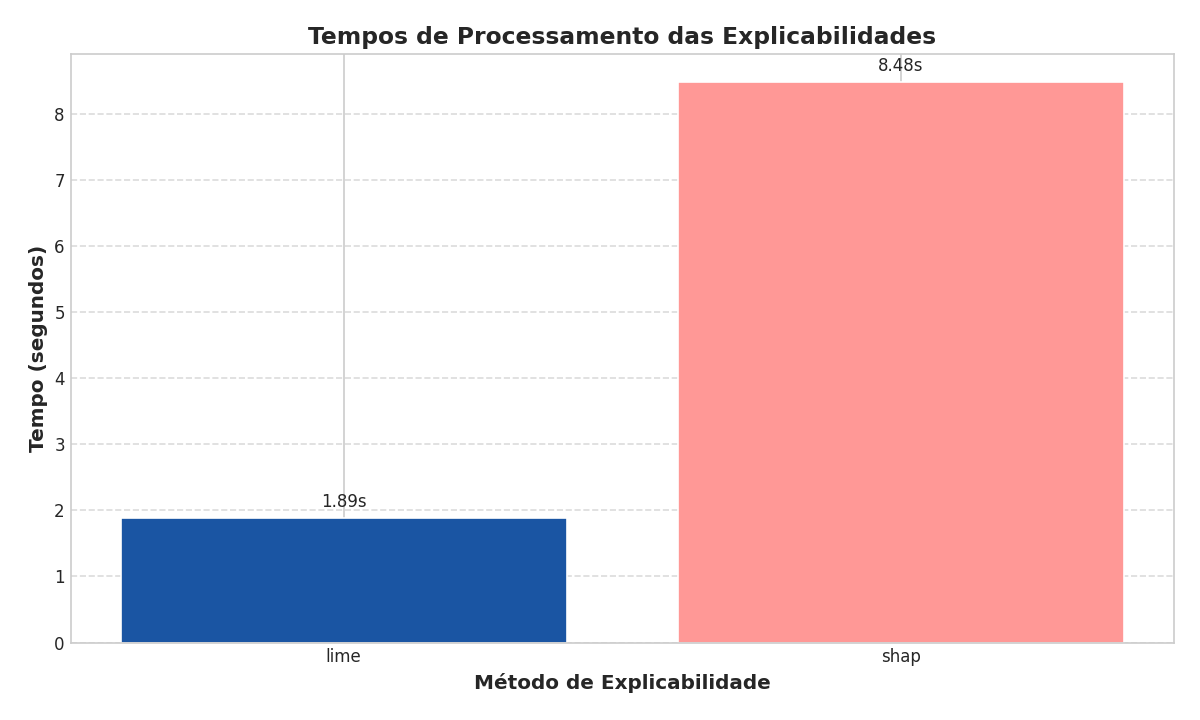
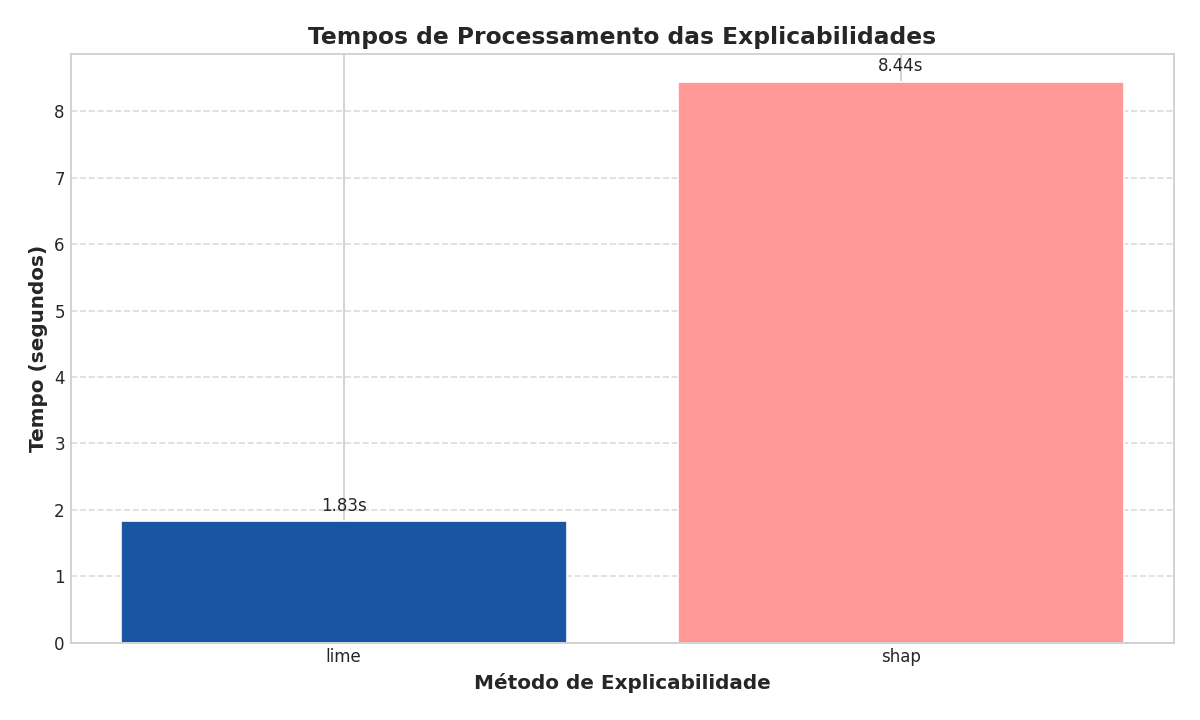
organização de lime e shap em colunas

diff --git a/CLFE/client/reports/client_1/final_report.html b/CLFE/client/reports/client_1/final_report.html
@@ -142,11 +142,11 @@
 <tr><th>Ronda</th><th>Fit</th><th>Evaluate</th><th>Lime</th><th>Shap</th></tr>
 </thead>
 <tbody>
-<tr><td>1</td><td>0.4288</td><td>0.0015</td><td>0.0000</td><td>0.0000</td></tr>
-<tr><td>2</td><td>0.0657</td><td>0.0015</td><td>0.0000</td><td>0.0000</td></tr>
-<tr><td>3</td><td>0.0649</td><td>0.0016</td><td>0.0000</td><td>0.0000</td></tr>
-<tr><td>4</td><td>0.0611</td><td>0.0014</td><td>0.0000</td><td>0.0000</td></tr>
-<tr><td>5</td><td>0.0667</td><td>0.0017</td><td>1.8903</td><td>8.4796</td></tr>
+<tr><td>1</td><td>0.4355</td><td>0.0015</td><td>0.0000</td><td>0.0000</td></tr>
+<tr><td>2</td><td>0.0636</td><td>0.0016</td><td>0.0000</td><td>0.0000</td></tr>
+<tr><td>3</td><td>0.0666</td><td>0.0015</td><td>0.0000</td><td>0.0000</td></tr>
+<tr><td>4</td><td>0.0664</td><td>0.0015</td><td>0.0000</td><td>0.0000</td></tr>
+<tr><td>5</td><td>0.0667</td><td>0.0019</td><td>1.8267</td><td>8.4421</td></tr>
 </tbody>
 </table>
 </div></div><div class="section plot-container">
@@ -184,13 +184,22 @@
             <!-- Adicionar gráfico de tempos de explicabilidade aqui -->
             <h3>Tempos de Explicabilidade</h3><img src="explainability_times.png" alt="Tempos de Explicabilidade" style="max-width: 600px;"/>
             
-            <h3>LIME</h3>
-            <img src="lime_final.png" alt="LIME final" style="max-width: 600px;"/>
-            <p><a href="lime_final.html" target="_blank">Ver LIME interativo</a> | <a href="lime_explanation.txt" target="_blank">Ver LIME (texto)</a></p>
-            
-            <h3>SHAP</h3>
-            <img src="shap_final.png" alt="SHAP final" style="max-width: 600px;"/>
-            <p><a href="shap_values.npy" download>Download SHAP Values (.npy)</a></p>
+            <!-- Layout de duas colunas para LIME e SHAP -->
+            <div style="display: flex; flex-wrap: wrap; gap: 20px; justify-content: space-between; margin-top: 20px;">
+                <!-- Coluna 1: LIME -->
+                <div style="flex: 1; min-width: 300px;">
+                    <h3>LIME</h3>
+                    <img src="lime_final.png" alt="LIME final" style="width: 100%; max-width: 600px;"/>
+                    <p><a href="lime_final.html" target="_blank">Ver LIME interativo</a> | <a href="lime_explanation.txt" target="_blank">Ver LIME (texto)</a></p>
+                </div>
+                
+                <!-- Coluna 2: SHAP -->
+                <div style="flex: 1; min-width: 300px;">
+                    <h3>SHAP</h3>
+                    <img src="shap_final.png" alt="SHAP final" style="width: 100%; max-width: 600px;"/>
+                    <p><a href="shap_values.npy" download>Download SHAP Values (.npy)</a></p>
+                </div>
+            </div>
             
             <h3>Explicabilidade Agregada</h3>
             
@@ -238,7 +247,7 @@
             </ul>
         </div>
 
-        <p><em>Relatório gerado automaticamente em 2025-05-04 07:34:16</em></p>
+        <p><em>Relatório gerado automaticamente em 2025-05-04 07:45:03</em></p>
     </body>
     </html>
     

diff --git a/CLFE/client/reports/client_2/final_report.html b/CLFE/client/reports/client_2/final_report.html
@@ -142,11 +142,11 @@
 <tr><th>Ronda</th><th>Fit</th><th>Evaluate</th><th>Lime</th><th>Shap</th></tr>
 </thead>
 <tbody>
-<tr><td>1</td><td>0.4271</td><td>0.0016</td><td>0.0000</td><td>0.0000</td></tr>
-<tr><td>2</td><td>0.0649</td><td>0.0016</td><td>0.0000</td><td>0.0000</td></tr>
-<tr><td>3</td><td>0.0649</td><td>0.0016</td><td>0.0000</td><td>0.0000</td></tr>
-<tr><td>4</td><td>0.0593</td><td>0.0015</td><td>0.0000</td><td>0.0000</td></tr>
-<tr><td>5</td><td>0.0655</td><td>0.0016</td><td>1.8964</td><td>8.5454</td></tr>
+<tr><td>1</td><td>0.4293</td><td>0.0015</td><td>0.0000</td><td>0.0000</td></tr>
+<tr><td>2</td><td>0.0612</td><td>0.0014</td><td>0.0000</td><td>0.0000</td></tr>
+<tr><td>3</td><td>0.0671</td><td>0.0015</td><td>0.0000</td><td>0.0000</td></tr>
+<tr><td>4</td><td>0.0672</td><td>0.0015</td><td>0.0000</td><td>0.0000</td></tr>
+<tr><td>5</td><td>0.0668</td><td>0.0018</td><td>1.9008</td><td>8.5239</td></tr>
 </tbody>
 </table>
 </div></div><div class="section plot-container">
@@ -184,13 +184,22 @@
             <!-- Adicionar gráfico de tempos de explicabilidade aqui -->
             <h3>Tempos de Explicabilidade</h3><img src="explainability_times.png" alt="Tempos de Explicabilidade" style="max-width: 600px;"/>
             
-            <h3>LIME</h3>
-            <img src="lime_final.png" alt="LIME final" style="max-width: 600px;"/>
-            <p><a href="lime_final.html" target="_blank">Ver LIME interativo</a> | <a href="lime_explanation.txt" target="_blank">Ver LIME (texto)</a></p>
-            
-            <h3>SHAP</h3>
-            <img src="shap_final.png" alt="SHAP final" style="max-width: 600px;"/>
-            <p><a href="shap_values.npy" download>Download SHAP Values (.npy)</a></p>
+            <!-- Layout de duas colunas para LIME e SHAP -->
+            <div style="display: flex; flex-wrap: wrap; gap: 20px; justify-content: space-between; margin-top: 20px;">
+                <!-- Coluna 1: LIME -->
+                <div style="flex: 1; min-width: 300px;">
+                    <h3>LIME</h3>
+                    <img src="lime_final.png" alt="LIME final" style="width: 100%; max-width: 600px;"/>
+                    <p><a href="lime_final.html" target="_blank">Ver LIME interativo</a> | <a href="lime_explanation.txt" target="_blank">Ver LIME (texto)</a></p>
+                </div>
+                
+                <!-- Coluna 2: SHAP -->
+                <div style="flex: 1; min-width: 300px;">
+                    <h3>SHAP</h3>
+                    <img src="shap_final.png" alt="SHAP final" style="width: 100%; max-width: 600px;"/>
+                    <p><a href="shap_values.npy" download>Download SHAP Values (.npy)</a></p>
+                </div>
+            </div>
             
             <h3>Explicabilidade Agregada</h3>
             
@@ -238,7 +247,7 @@
             </ul>
         </div>
 
-        <p><em>Relatório gerado automaticamente em 2025-05-04 07:34:16</em></p>
+        <p><em>Relatório gerado automaticamente em 2025-05-04 07:45:03</em></p>
     </body>
     </html>
     

diff --git a/CLFE/client/report_utils.py b/CLFE/client/report_utils.py
@@ -607,13 +607,22 @@ def generate_html_report(history, plot_files, base_reports, client_id, dataset_p
             <!-- Adicionar gráfico de tempos de explicabilidade aqui -->
             {f'<h3>Tempos de Explicabilidade</h3><img src="explainability_times.png" alt="Tempos de Explicabilidade" style="max-width: 600px;"/>' if 'explainability_times.png' in os.listdir(base_reports) else ''}
             
-            <h3>LIME</h3>
-            {f'<img src="lime_final.png" alt="LIME final" style="max-width: 600px;"/>' if 'lime_final.png' in os.listdir(base_reports) else '<p><em>Explicação LIME não disponível ou não gerada.</em></p>'}
-            <p><a href="lime_final.html" target="_blank">Ver LIME interativo</a> | <a href="lime_explanation.txt" target="_blank">Ver LIME (texto)</a></p>
-            
-            <h3>SHAP</h3>
-            {f'<img src="shap_final.png" alt="SHAP final" style="max-width: 600px;"/>' if 'shap_final.png' in os.listdir(base_reports) else '<p><em>Explicação SHAP não disponível ou não gerada.</em></p>'}
-            <p><a href="shap_values.npy" download>Download SHAP Values (.npy)</a></p>
+            <!-- Layout de duas colunas para LIME e SHAP -->
+            <div style="display: flex; flex-wrap: wrap; gap: 20px; justify-content: space-between; margin-top: 20px;">
+                <!-- Coluna 1: LIME -->
+                <div style="flex: 1; min-width: 300px;">
+                    <h3>LIME</h3>
+                    {f'<img src="lime_final.png" alt="LIME final" style="width: 100%; max-width: 600px;"/>' if 'lime_final.png' in os.listdir(base_reports) else '<p><em>Explicação LIME não disponível ou não gerada.</em></p>'}
+                    <p><a href="lime_final.html" target="_blank">Ver LIME interativo</a> | <a href="lime_explanation.txt" target="_blank">Ver LIME (texto)</a></p>
+                </div>
+                
+                <!-- Coluna 2: SHAP -->
+                <div style="flex: 1; min-width: 300px;">
+                    <h3>SHAP</h3>
+                    {f'<img src="shap_final.png" alt="SHAP final" style="width: 100%; max-width: 600px;"/>' if 'shap_final.png' in os.listdir(base_reports) else '<p><em>Explicação SHAP não disponível ou não gerada.</em></p>'}
+                    <p><a href="shap_values.npy" download>Download SHAP Values (.npy)</a></p>
+                </div>
+            </div>
             
             <h3>Explicabilidade Agregada</h3>
             
